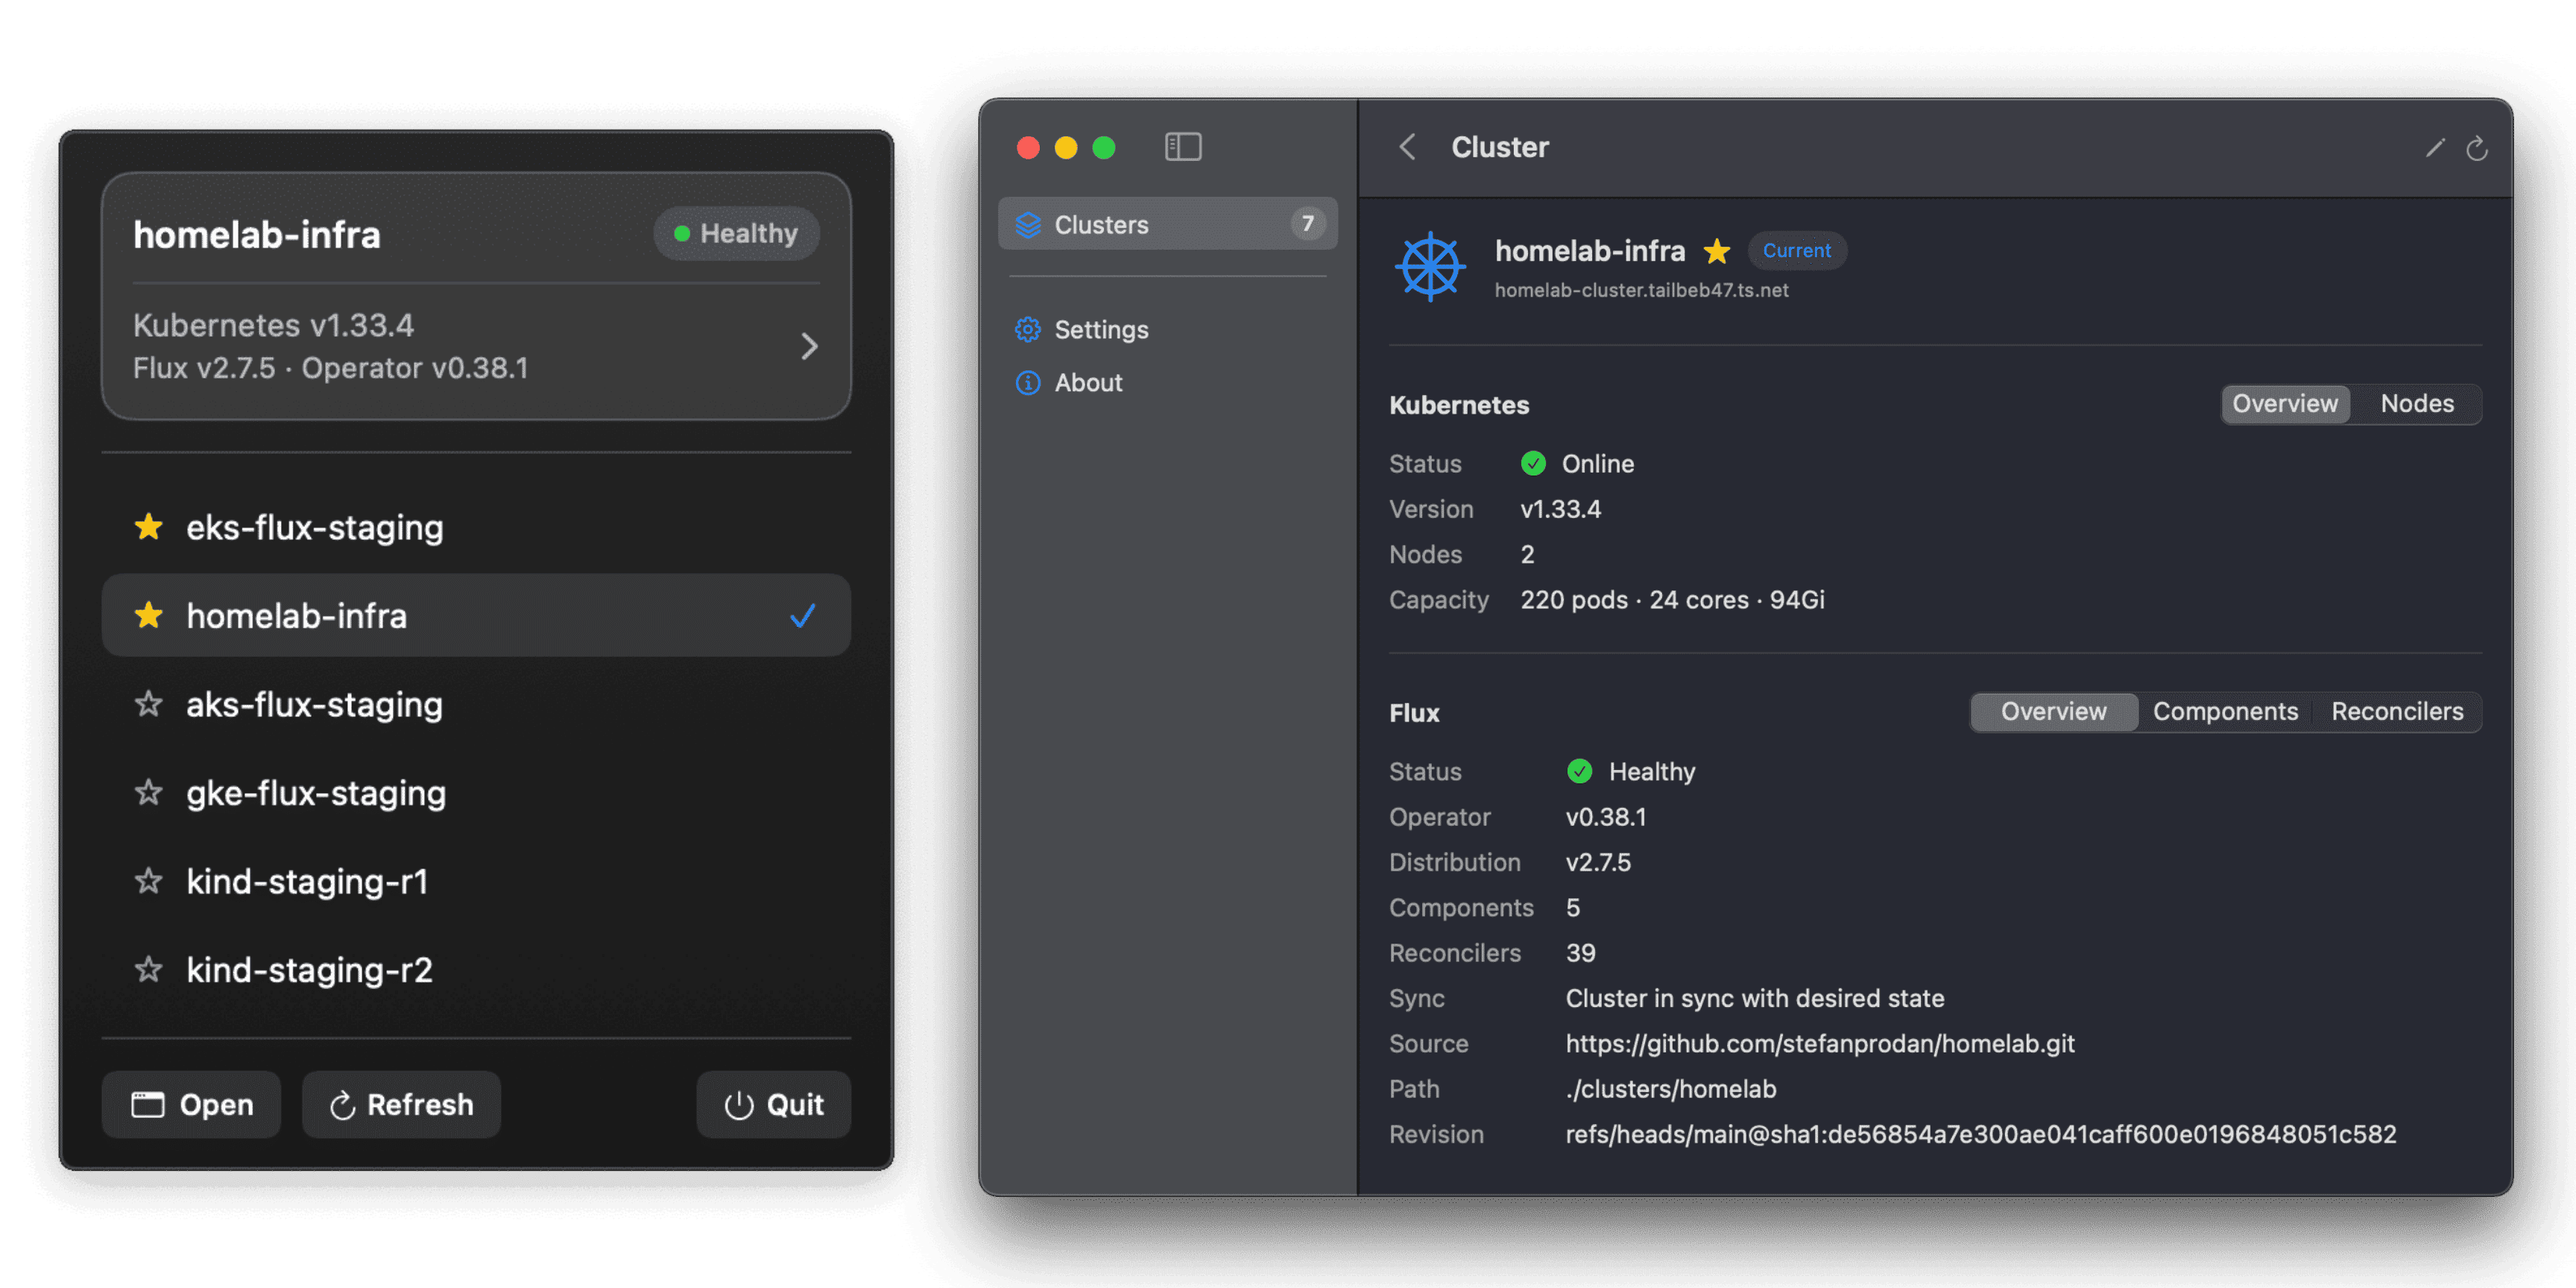
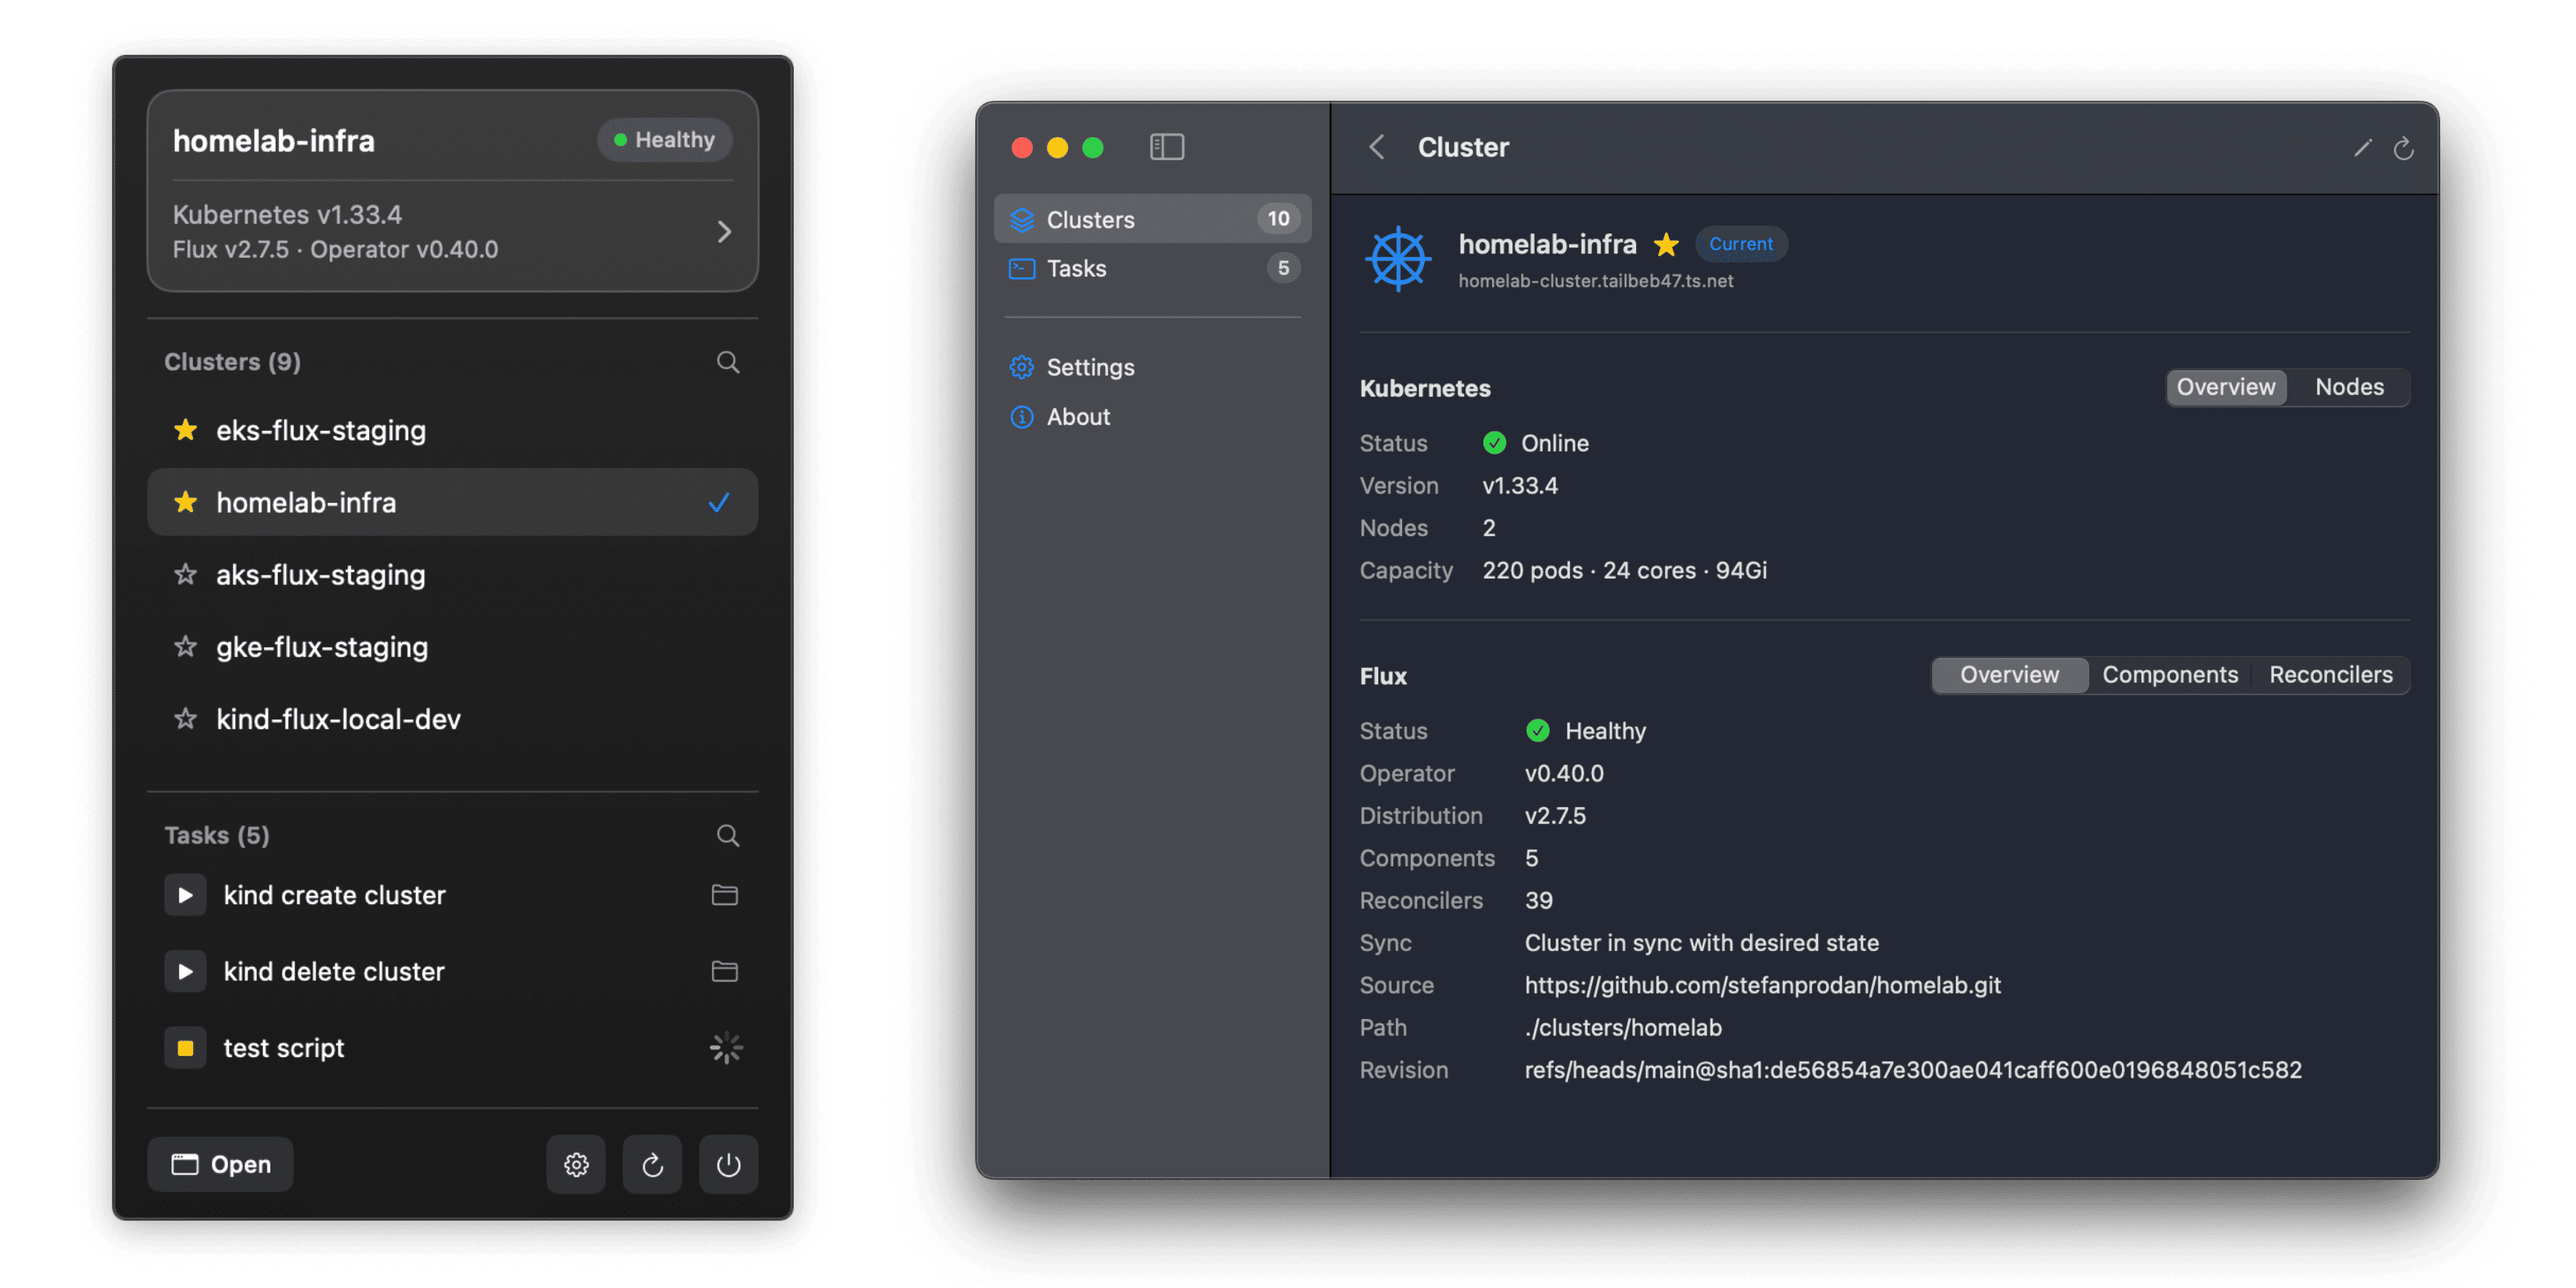
Add Task Runner feature to the website

Changed region(s): [[0.0, 0.0312, 1.0, 1.0]]

diff --git a/docs/index.html b/docs/index.html
@@ -254,15 +254,8 @@
     .feature-card {
       padding: 24px;
       background: var(--bg-card);
-      backdrop-filter: blur(12px);
       border: 1px solid var(--white-5);
       border-radius: 16px;
-      transition: all 0.3s ease;
-    }
-    .feature-card:hover {
-      transform: translateY(-4px);
-      border-color: var(--white-10);
-      box-shadow: 0 20px 40px rgba(0,0,0,0.3), 0 0 30px var(--glow-brand);
     }
     .feature-header {
       display: flex;
@@ -718,15 +711,34 @@
     </div>
   </section>
 
-  <!-- Feature: Settings -->
+  <!-- Feature: Task Runner -->
   <section class="feature-section">
     <div class="feature-content">
       <div class="feature-text">
+        <p class="section-label">Automation</p>
+        <h2>Task Runner</h2>
+        <p>Execute shell scripts directly from the menu bar. Automate common Kubernetes workflows with required and optional input parameters.</p>
+        <ul class="feature-list">
+          <li><span class="check"><svg viewBox="0 0 24 24" fill="none" stroke="currentColor" stroke-width="3" stroke-linecap="round" stroke-linejoin="round" aria-hidden="true" focusable="false"><polyline points="20 6 9 17 4 12"/></svg></span>Write your own scripts in ~/.kswitch/tasks/</li>
+          <li><span class="check"><svg viewBox="0 0 24 24" fill="none" stroke="currentColor" stroke-width="3" stroke-linecap="round" stroke-linejoin="round" aria-hidden="true" focusable="false"><polyline points="20 6 9 17 4 12"/></svg></span>Define input parameters for reusable scripts</li>
+          <li><span class="check"><svg viewBox="0 0 24 24" fill="none" stroke="currentColor" stroke-width="3" stroke-linecap="round" stroke-linejoin="round" aria-hidden="true" focusable="false"><polyline points="20 6 9 17 4 12"/></svg></span>Real-time output with ANSI color support</li>
+        </ul>
+      </div>
+      <div class="feature-visual">
+        <img src="screenshots/kswitch-task-runner.png" alt="KSwitch Task Runner" class="feature-img lightbox-trigger" loading="lazy" decoding="async">
+      </div>
+    </div>
+  </section>
+
+  <!-- Feature: Settings -->
+  <section class="feature-section">
+    <div class="feature-content reverse">
+      <div class="feature-text">
         <p class="section-label">Settings</p>
         <h2>Fully configurable</h2>
-        <p>Customize paths, refresh intervals, and notification preferences. Support for multiple kubeconfig files.</p>
+        <p>Customize paths, refresh intervals, notification preferences, and task directory with your own scripts. Support for multiple kubeconfig files.</p>
         <ul class="feature-list">
-          <li><span class="check"><svg viewBox="0 0 24 24" fill="none" stroke="currentColor" stroke-width="3" stroke-linecap="round" stroke-linejoin="round" aria-hidden="true" focusable="false"><polyline points="20 6 9 17 4 12"/></svg></span>Custom kubectl path</li>
+          <li><span class="check"><svg viewBox="0 0 24 24" fill="none" stroke="currentColor" stroke-width="3" stroke-linecap="round" stroke-linejoin="round" aria-hidden="true" focusable="false"><polyline points="20 6 9 17 4 12"/></svg></span>Custom kubectl and tasks directory paths</li>
           <li><span class="check"><svg viewBox="0 0 24 24" fill="none" stroke="currentColor" stroke-width="3" stroke-linecap="round" stroke-linejoin="round" aria-hidden="true" focusable="false"><polyline points="20 6 9 17 4 12"/></svg></span>Configurable refresh intervals</li>
           <li><span class="check"><svg viewBox="0 0 24 24" fill="none" stroke="currentColor" stroke-width="3" stroke-linecap="round" stroke-linejoin="round" aria-hidden="true" focusable="false"><polyline points="20 6 9 17 4 12"/></svg></span>Auto-start on login</li>
         </ul>

diff --git a/README.md b/README.md
@@ -1,14 +1,15 @@
 # KSwitch
 
+[![install](https://img.shields.io/badge/Install-KSwitch.dmg-blue.svg)](https://github.com/stefanprodan/kswitch/releases/latest/download/KSwitch.dmg)
 [![release](https://img.shields.io/github/release/stefanprodan/kswitch/all.svg)](https://github.com/stefanprodan/kswitch/releases)
 [![test](https://github.com/stefanprodan/kswitch/actions/workflows/test.yaml/badge.svg)](https://github.com/stefanprodan/kswitch/actions/workflows/test.yaml)
 [![platform](https://img.shields.io/badge/Platform-macOS%2015-blue.svg)](https://developer.apple.com)
-[![install](https://img.shields.io/badge/Install-KSwitch-blue.svg)](https://stefanprodan.github.io/kswitch/)
 [![license](https://img.shields.io/github/license/stefanprodan/kswitch.svg)](https://github.com/stefanprodan/kswitch/blob/main/LICENSE)
 
-KSwitch is a native macOS app for managing Kubernetes contexts, monitoring
-[Flux Operator](https://fluxoperator.dev) GitOps clusters, and running
-tasks directly from the menu bar.
+KSwitch is a native macOS app for managing Kubernetes contexts and monitoring
+[Flux Operator](https://fluxoperator.dev) GitOps clusters directly from the menu bar.
+It also provides a task runner for automating common Kubernetes workflows
+with shell scripts, input parameters, and real-time output.
 
 <p align="center">
   <img src="docs/screenshots/kswitch-banner.png" alt="KSwitch Dark Mode" width="100%"/>
@@ -21,7 +22,7 @@ tasks directly from the menu bar.
 - **GitOps Monitoring** - Displays Flux Operator version, cluster sync status, and reconciler status
 - **Organization** - Mark clusters as favorites, hide unused ones, customize display names and colors
 - **Notifications** - Get notified when clusters become degraded or Flux reconcilers fail
-- **Tasks** - Run shell scripts from the menu bar with input parameters and real-time output
+- **Automation** - Run shell scripts from the menu bar with input parameters and real-time output
 
 ## Installation
 

diff --git a/.kswitch/tasks/README.md b/.kswitch/tasks/README.md
@@ -23,7 +23,7 @@ ln -s /path/to/your/scripts ~/.kswitch/tasks
 
 ## Naming Convention
 
-You can set a custom display name and description using comments:
+You can set a custom display name and description using comments inside the script:
 
 ```bash
 # KSWITCH_TASK: My Custom Task Name
@@ -44,7 +44,8 @@ Define inputs in comment headers within the first 100 lines of the script.
 # KSWITCH_INPUT: VAR_NAME "Description of the input"
 ```
 
-KSwitch will prompt for required inputs before running the script.
+Running a task from the menu bar that contains required inputs, will
+make KSwitch open the main window to prompt for the necessary values.
 
 ### Optional Inputs
 
@@ -52,7 +53,11 @@ KSwitch will prompt for required inputs before running the script.
 # KSWITCH_INPUT_OPT: VAR_NAME "Description of the input (default: some-default)"
 ```
 
-The script should handle optional inputs by providing defaults, typically using bash parameter expansion.
+The script should handle optional inputs by providing defaults,
+typically using bash parameter expansion.
+
+Running a task from the menu bar that contains only optional inputs will
+not prompt for any values before execution.
 
 ## Environment
 
